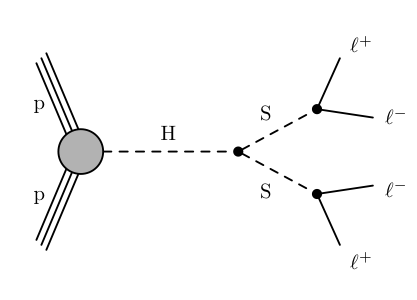
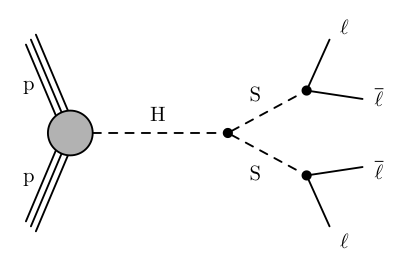
small update to feynman diagrams

diff --git a/FeynmanDiagrams/HToSSTo4L.tex b/FeynmanDiagrams/HToSSTo4L.tex
@@ -37,17 +37,17 @@
 
   %%%%%%%%%%%%% Decays and vertex circles
   \fmf{fermion}{v4,o4} 
-  \fmflabel{$\ell^{+}$}{o4}
+  \fmflabel{$\ell$}{o4}
 
   \fmf{fermion}{v4,o3}
-  \fmflabel{$\ell^{-}$}{o3}
+  \fmflabel{$\overline{\ell}$}{o3}
 
   %% 2nd decay
   \fmf{fermion}{v3,o1}
-  \fmflabel{$\ell^{+}$}{o1}
+  \fmflabel{$\ell$}{o1}
  
   \fmf{fermion}{v3,o2}
-  \fmflabel{$\ell^{-}$}{o2}
+  \fmflabel{$\overline{\ell}$}{o2}
 
   %% Vertex circles
   \fmfdot{v2,v3,v4}

diff --git a/FeynmanDiagrams/SleptonToGravitinoLepton.tex b/FeynmanDiagrams/SleptonToGravitinoLepton.tex
@@ -30,11 +30,11 @@
            
   %%%%%%%%%%%% Produced SUSY particles
   \fmf{dashes, label=\sLep, label.side=left}{v1,v3}
-  \fmf{dashes, label=\sLep, label.side=right}{v1,v2}
+  \fmf{dashes, label=\sLepb, label.side=right}{v1,v2}
 
   %%%%%%%%%%%%% Decays and vertex circles
   \fmf{fermion}{v3,o4} 
-  \fmflabel{$\ell$}{o4}
+  \fmflabel{$\overline{\ell}$}{o4}
 
   \fmf{dots}{v3,o3}
   \fmflabel{\sGra}{o3}
